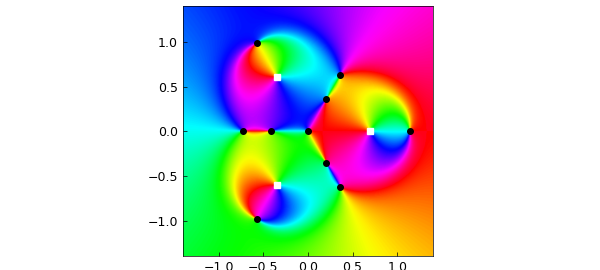
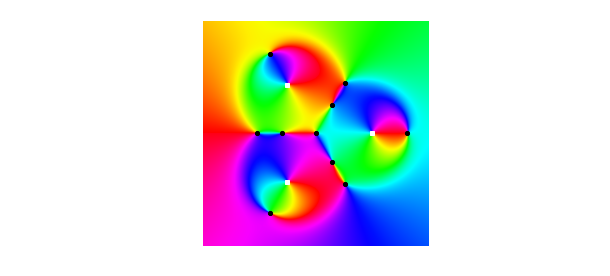
Restore RationalHarmonic Chebfun2 portraits and page output
Follow cached-page1e-8 portrait tolerance and500-square phase grid; recompute perturbed poles via public roots. Two610x276 figures and sourceans15 verified on CPU. Exact historical raster and complete numeric parity remain open.

diff --git a/examples/complex/rational_harmonic.py b/examples/complex/rational_harmonic.py
@@ -1,16 +1,15 @@
-"""Zeros of rational harmonic functions.
+"""Zeros of rational harmonic functions with source Chebfun2 phase portraits.
 
-Translation of complex/RationalHarmonic.m by Olivier Sete
-(December 2015): zeros of r(z) - conj(z) (gravitational-lensing
-harmonic mappings), located as common roots of the real and imaginary
-parts, with phase portraits.
-
+Translation of complex/RationalHarmonic.m by Olivier Sete (February2016).
 Original: https://www.chebfun.org/examples/complex/RationalHarmonic.html
 Copyright by The University of Oxford and The Chebfun Developers.
 """
+
 import matplotlib
 
 matplotlib.use("Agg")
+import hashlib
+import json
 import os
 import sys
 
@@ -18,86 +17,106 @@ import jax.numpy as jnp
 import matplotlib.pyplot as plt
 import numpy as np
 
-sys.path.insert(0, os.path.join(os.path.dirname(__file__), '..', '..', 'src'))
-
+sys.path.insert(0, os.path.join(os.path.dirname(__file__), "..", "..", "src"))
 import chebfunjax as cj
 from chebfunjax.plotting import chebfun_style
 from chebfunjax.plotting import save_chebfun_figure as _savefig
+from chebfunjax.utils.phaseplot import phaseplot
 
 chebfun_style()
-_HERE = os.path.dirname(os.path.abspath(__file__))
-_IMG = os.path.join(_HERE, '..', '..', 'docs', 'images', 'complex')
-
+_IMG = os.path.join(
+    os.path.dirname(os.path.abspath(__file__)), "..", "..", "docs", "images", "complex"
+)
+_PAGE_REPORT = None
 N = 3
 A = 0.7
-DOM = tuple(1.4 * np.array([-1, 1, -1, 1]))
-FIG = [0]
+DOM = (-1.4, 1.4, -1.4, 1.4)
 
 
 def _common_roots(expr):
-    """Common zeros of Re(expr) and Im(expr) where expr maps (x, y) to
-    a complex value."""
+    # Explicit MATLAB roots(complexChebfun2) real/imaginary host-output adapter.
     fre = cj.chebfun2(lambda x, y: jnp.real(expr(x, y)), domain=DOM)
     fim = cj.chebfun2(lambda x, y: jnp.imag(expr(x, y)), domain=DOM)
-    pts = np.asarray(fre.roots(fim))
-    return np.atleast_2d(pts)
+    return np.asarray(fre.roots(fim)).reshape(-1, 2)
 
 
 def smash(v):
-    with np.errstate(all="ignore"):
-        g = v / (1 + np.abs(v) ** 2)
-    return np.where(np.isnan(g), 0.0, g)
+    value = v / (1 + jnp.abs(v) ** 2)
+    return jnp.where(jnp.isnan(value), 0, value)
 
 
-def _portrait(F, zeros_xy, poles_xy, fname):
-    FIG[0] += 1
-    xs = np.linspace(DOM[0], DOM[1], 480)
-    X, Y = np.meshgrid(xs, xs)
-    with np.errstate(all="ignore"):
-        V = F(X + 1j * Y)
-    H = (np.angle(V) + np.pi) / (2 * np.pi)
-    fig, ax = plt.subplots(figsize=(6.8, 6.4))
-    ax.imshow(plt.cm.hsv(H), origin="lower",
-              extent=(DOM[0], DOM[1], DOM[2], DOM[3]), aspect="equal")
-    if poles_xy is not None and len(poles_xy):
-        ax.plot(poles_xy[:, 0], poles_xy[:, 1], 'ws', ms=4, mfc='w')
-    if zeros_xy is not None and len(zeros_xy):
-        ax.plot(zeros_xy[:, 0], zeros_xy[:, 1], 'ko', ms=4, mfc='k')
-    fig.set_facecolor("white")
-    fig.tight_layout()
-    _savefig(fig, os.path.join(
-        _IMG, f"RationalHarmonic_{FIG[0]:02d}.png"))
+def _portrait(fun, zeros, poles, index):
+    # The source explicitly constructs the smooth Chebfun2 at eps1e-8.
+    portrait = cj.chebfun2(lambda x, y: fun(x + 1j * y), domain=DOM, tol=1e-8)
+    # classic hue with caxis_start0 equals angle(-f) with caxis[-pi,pi],
+    # as in pinned @separableApprox/plot.m; existing HSV600 adapter reused.
+    image = phaseplot(lambda z: portrait(jnp.real(z), jnp.imag(z)), ax=DOM, n_pts=500, classic=True)
+    fig, ax = plt.subplots(figsize=(610 / 72.009, 276 / 72.009))
+    ax.set_position([203 / 610, 30 / 276, 225 / 610, 225 / 276])
+    ax.imshow(image, origin="lower", extent=DOM, aspect="equal")
+    ax.set_xlim(DOM[:2])
+    ax.set_ylim(DOM[2:])
+    ax.set_axis_off()
+    ax.plot(poles[:, 0], poles[:, 1], "ws", markersize=3 * 100 / 72.009, markerfacecolor="w")
+    ax.plot(zeros[:, 0], zeros[:, 1], "ko", markersize=3 * 100 / 72.009, markerfacecolor="k")
+    _savefig(
+        fig, os.path.join(_IMG, f"RationalHarmonic_{index:02d}.png"), size=(610, 276), dpi=72.009
+    )
     plt.close(fig)
+    return {
+        "rank": portrait.rank,
+        "raster_shape": list(image.shape),
+        "raster_sha256": hashlib.sha256(image.tobytes()).hexdigest(),
+        "tol": 1e-8,
+    }
 
 
 def run():
     os.makedirs(_IMG, exist_ok=True)
 
-    def zc(x, y):
-        return x + 1j * y
+    def p(z):
+        return z ** (N - 1)
 
-    p = lambda z: z ** (N - 1)          # noqa: E731
-    q = lambda z: z**N - A**N           # noqa: E731
+    def q(z):
+        return z**N - A**N
 
-    poles = _common_roots(lambda x, y: q(zc(x, y)))
-    zeros = _common_roots(
-        lambda x, y: p(zc(x, y)) - q(zc(x, y)) * jnp.conj(zc(x, y)))
-    print(f"n_zeros = {len(zeros)}  n_poles = {len(poles)}")
+    poles = _common_roots(lambda x, y: q(x + 1j * y))
+    zeros = _common_roots(lambda x, y: p(x + 1j * y) - q(x + 1j * y) * jnp.conj(x + 1j * y))
 
-    ff = lambda z: z ** (N - 1) / (z**N - A**N) - np.conj(z)  # noqa: E731
-    _portrait(lambda z: smash(ff(z)), zeros, poles, "")
+    def ff(z):
+        return p(z) / q(z) - jnp.conj(z)
 
-    # epsilon-perturbed: a pole at the origin creates additional zeros
-    eps_ = 0.01
+    report1 = _portrait(lambda z: smash(ff(z)), zeros, poles, 1)
+    epsilon = 0.01
+    poles_eps = _common_roots(lambda x, y: q(x + 1j * y) * (x + 1j * y))
     zeros_eps = _common_roots(
-        lambda x, y: (p(zc(x, y)) * zc(x, y) + eps_ * q(zc(x, y))
-                      - q(zc(x, y)) * zc(x, y) * jnp.conj(zc(x, y))))
+        lambda x, y: (
+            p(x + 1j * y) * (x + 1j * y)
+            + epsilon * q(x + 1j * y)
+            - q(x + 1j * y) * (x + 1j * y) * jnp.conj(x + 1j * y)
+        )
+    )
     print("ans =")
     print(f"    {len(zeros_eps)}")
-    poles_eps = np.vstack([poles, [[0.0, 0.0]]])
-    ffe = lambda z: ff(z) + eps_ / z  # noqa: E731
-    _portrait(lambda z: smash(ffe(z) * np.abs(z * q(z)) ** 2),
-              zeros_eps, poles_eps, "")
+    report2 = _portrait(
+        lambda z: smash((ff(z) + epsilon / z) * jnp.abs(z * q(z)) ** 2), zeros_eps, poles_eps, 2
+    )
+    if _PAGE_REPORT is not None:
+        with open(_PAGE_REPORT, "w") as stream:
+            json.dump(
+                {
+                    "pole_count": len(poles),
+                    "zero_count": len(zeros),
+                    "perturbed_pole_count": len(poles_eps),
+                    "perturbed_zero_count": len(zeros_eps),
+                    "portrait1": report1,
+                    "portrait2": report2,
+                    "roots": zeros.tolist(),
+                    "perturbed_roots": zeros_eps.tolist(),
+                },
+                stream,
+                indent=2,
+            )
 
 
 if __name__ == "__main__":
